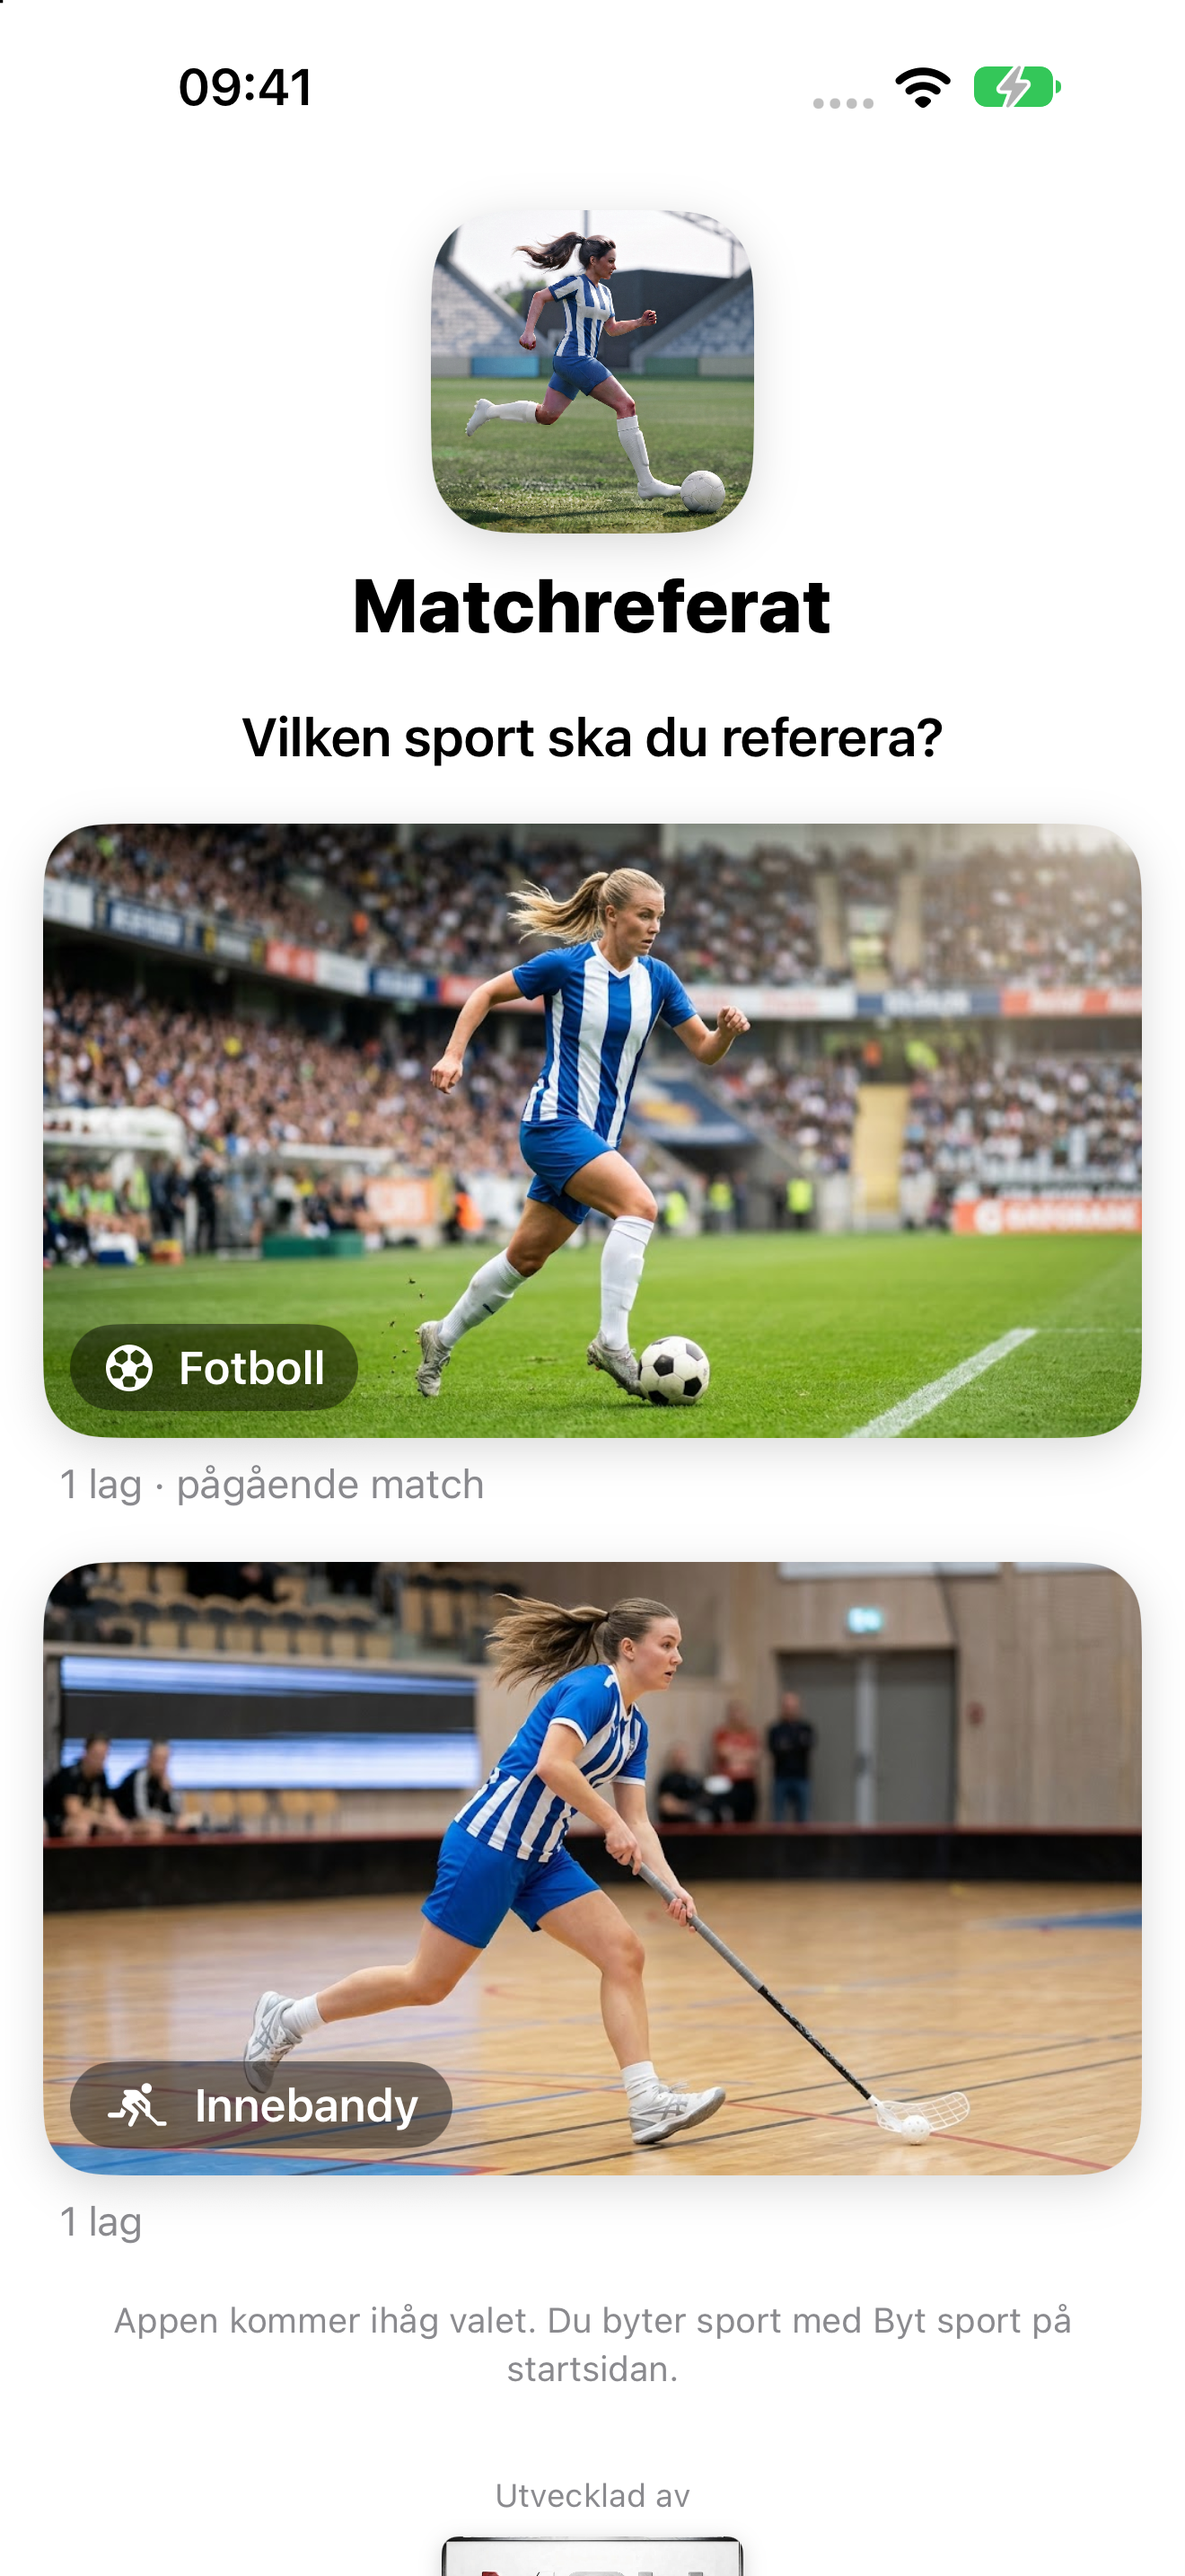
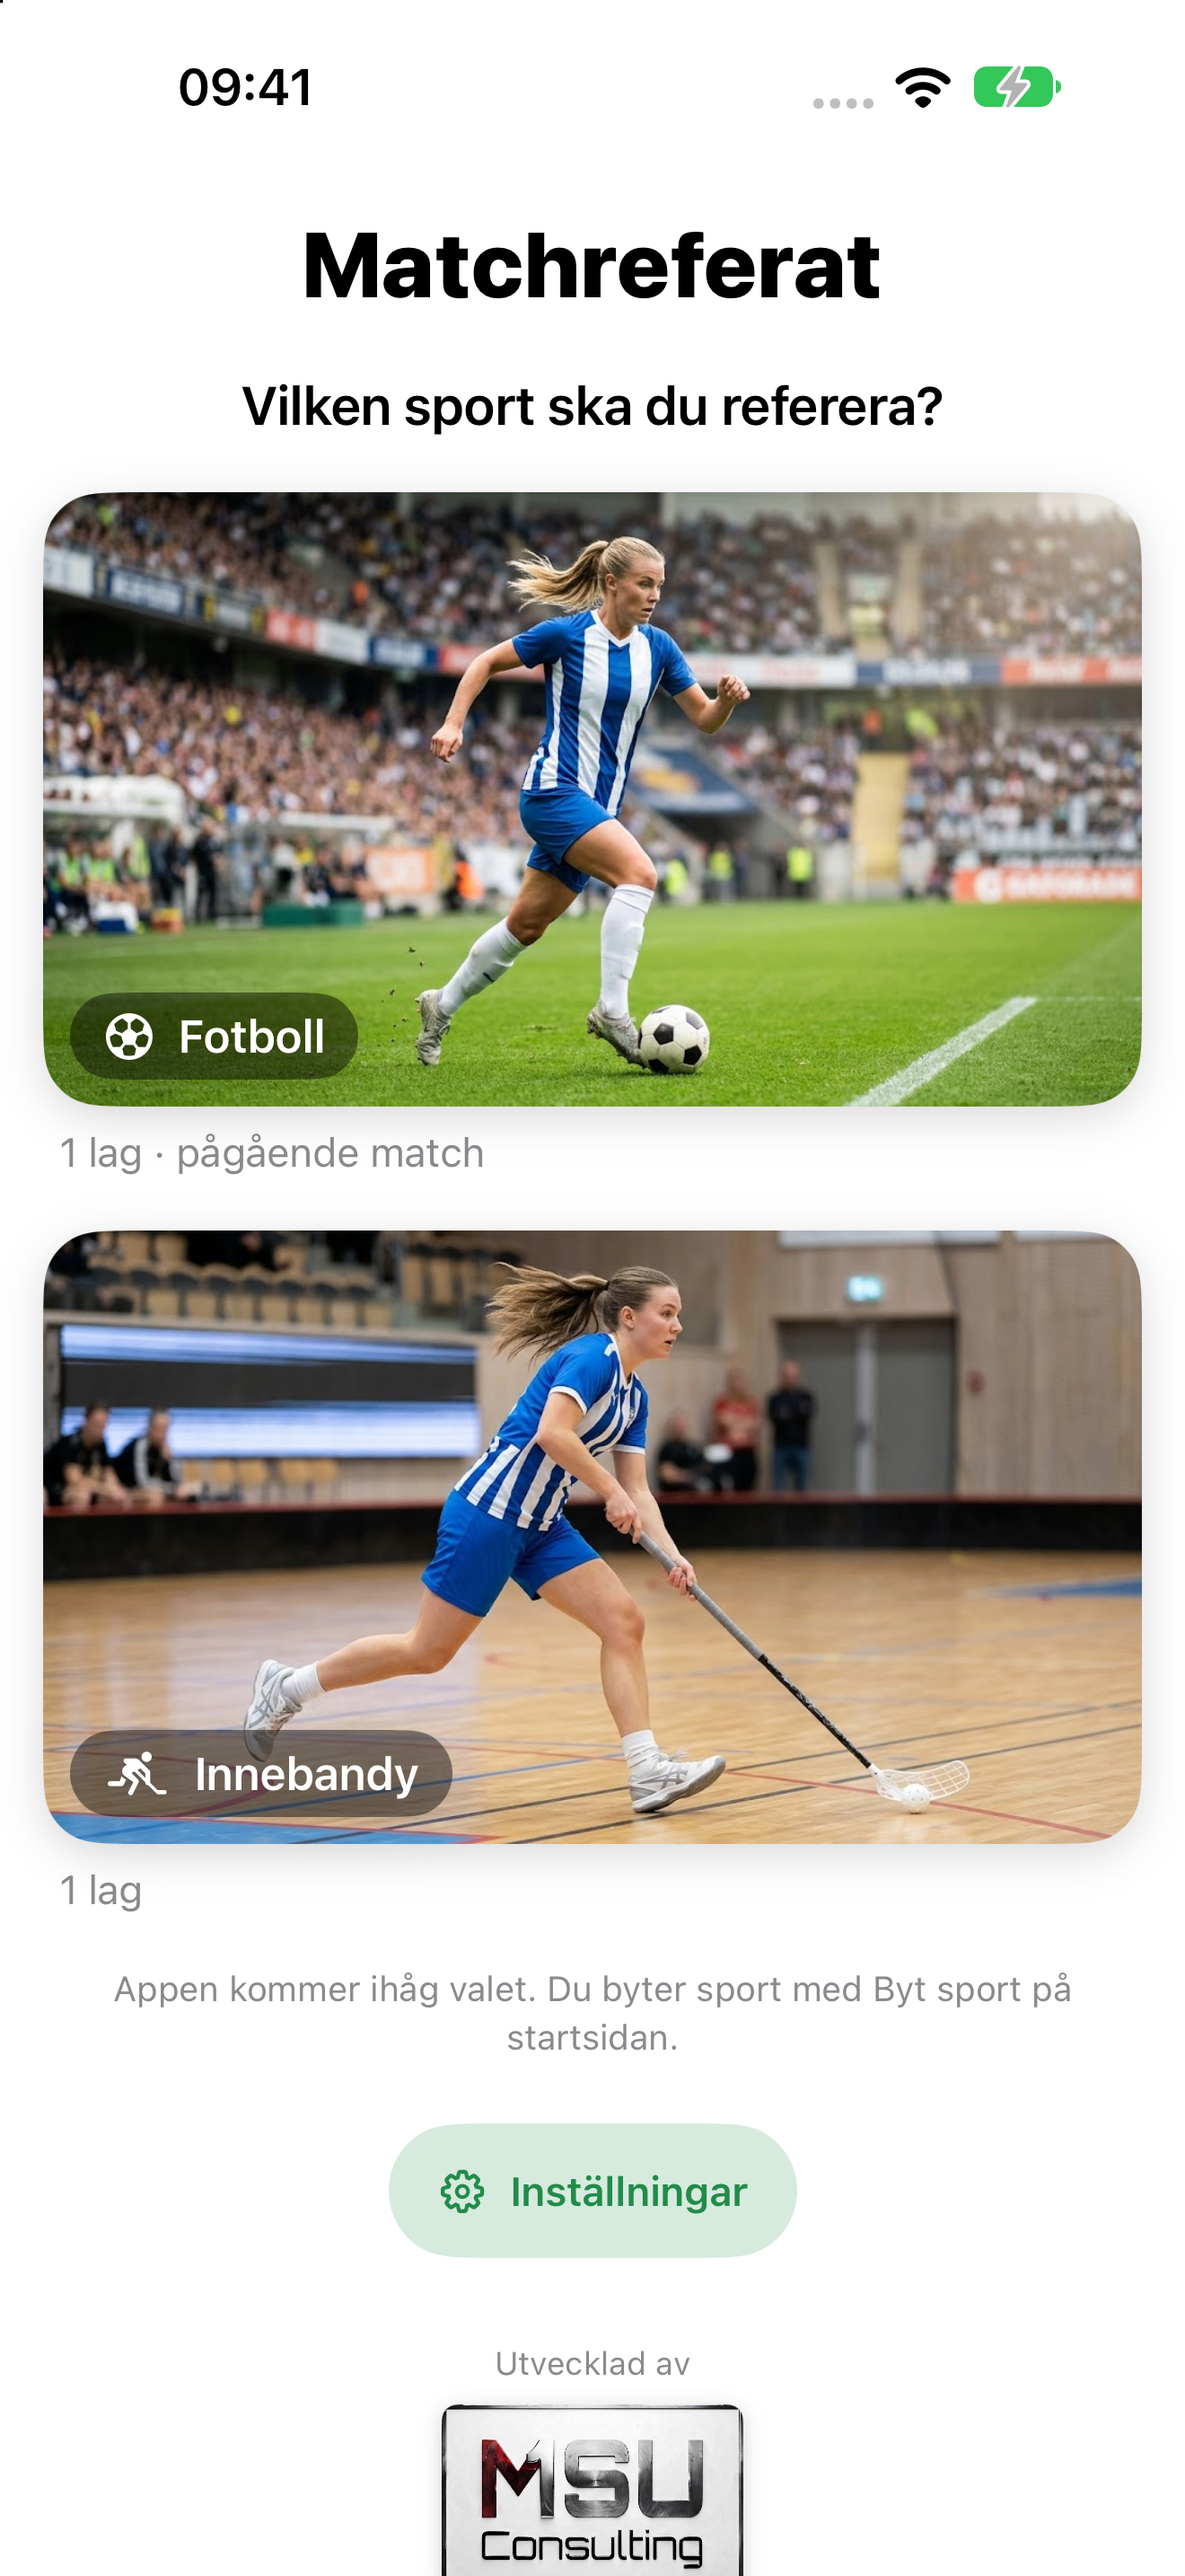
Ny appikon och första sidan utan den gamla loggan
Ikonens inbyggda ram och vita hörn är borttagna (iOS rundar själv), 1024x1024
utan alfakanal. Originalet ligger i branding/.

diff --git a/Sources/StartView.swift b/Sources/StartView.swift
@@ -272,20 +272,12 @@ struct SportPickerView: View {
     }
 }
 
-/// The app logo (a girl kicking a football) with the app name.
+/// The app name as the sport picker's heading.
 struct Logo: View {
     var body: some View {
-        VStack(spacing: 10) {
-            Image("AppLogo")
-                .resizable()
-                .scaledToFit()
-                .frame(width: 120, height: 120)
-                .clipShape(RoundedRectangle(cornerRadius: 28, style: .continuous))
-                .shadow(color: .black.opacity(0.15), radius: 8, y: 4)
-                .accessibilityHidden(true)
-            Text("Matchreferat")
-                .font(.title.weight(.heavy))
-        }
+        Text("Matchreferat")
+            .font(.largeTitle.weight(.heavy))
+            .accessibilityAddTraits(.isHeader)
     }
 }
 

diff --git a/appstore/METADATA.md b/appstore/METADATA.md
@@ -74,7 +74,7 @@ fotboll,innebandy,referat,live,match,resultat,ungdomsfotboll,förälder,ledare,l
 • Straff i fotboll: logga straffmål, räddade och missade straffar för båda lagen
 • Lag och matcher sparas per sport, och Pågår nu visar sportikon
 • Inställningar: håll skärmen tänd under match, vibration av eller på, vilken sport appen öppnar med
-• Ny startbild
+• Ny appikon och nya startbilder
 ```
 
 **Nyheter i 1.0.2** (inskickad tidigare, sparas som referens)
